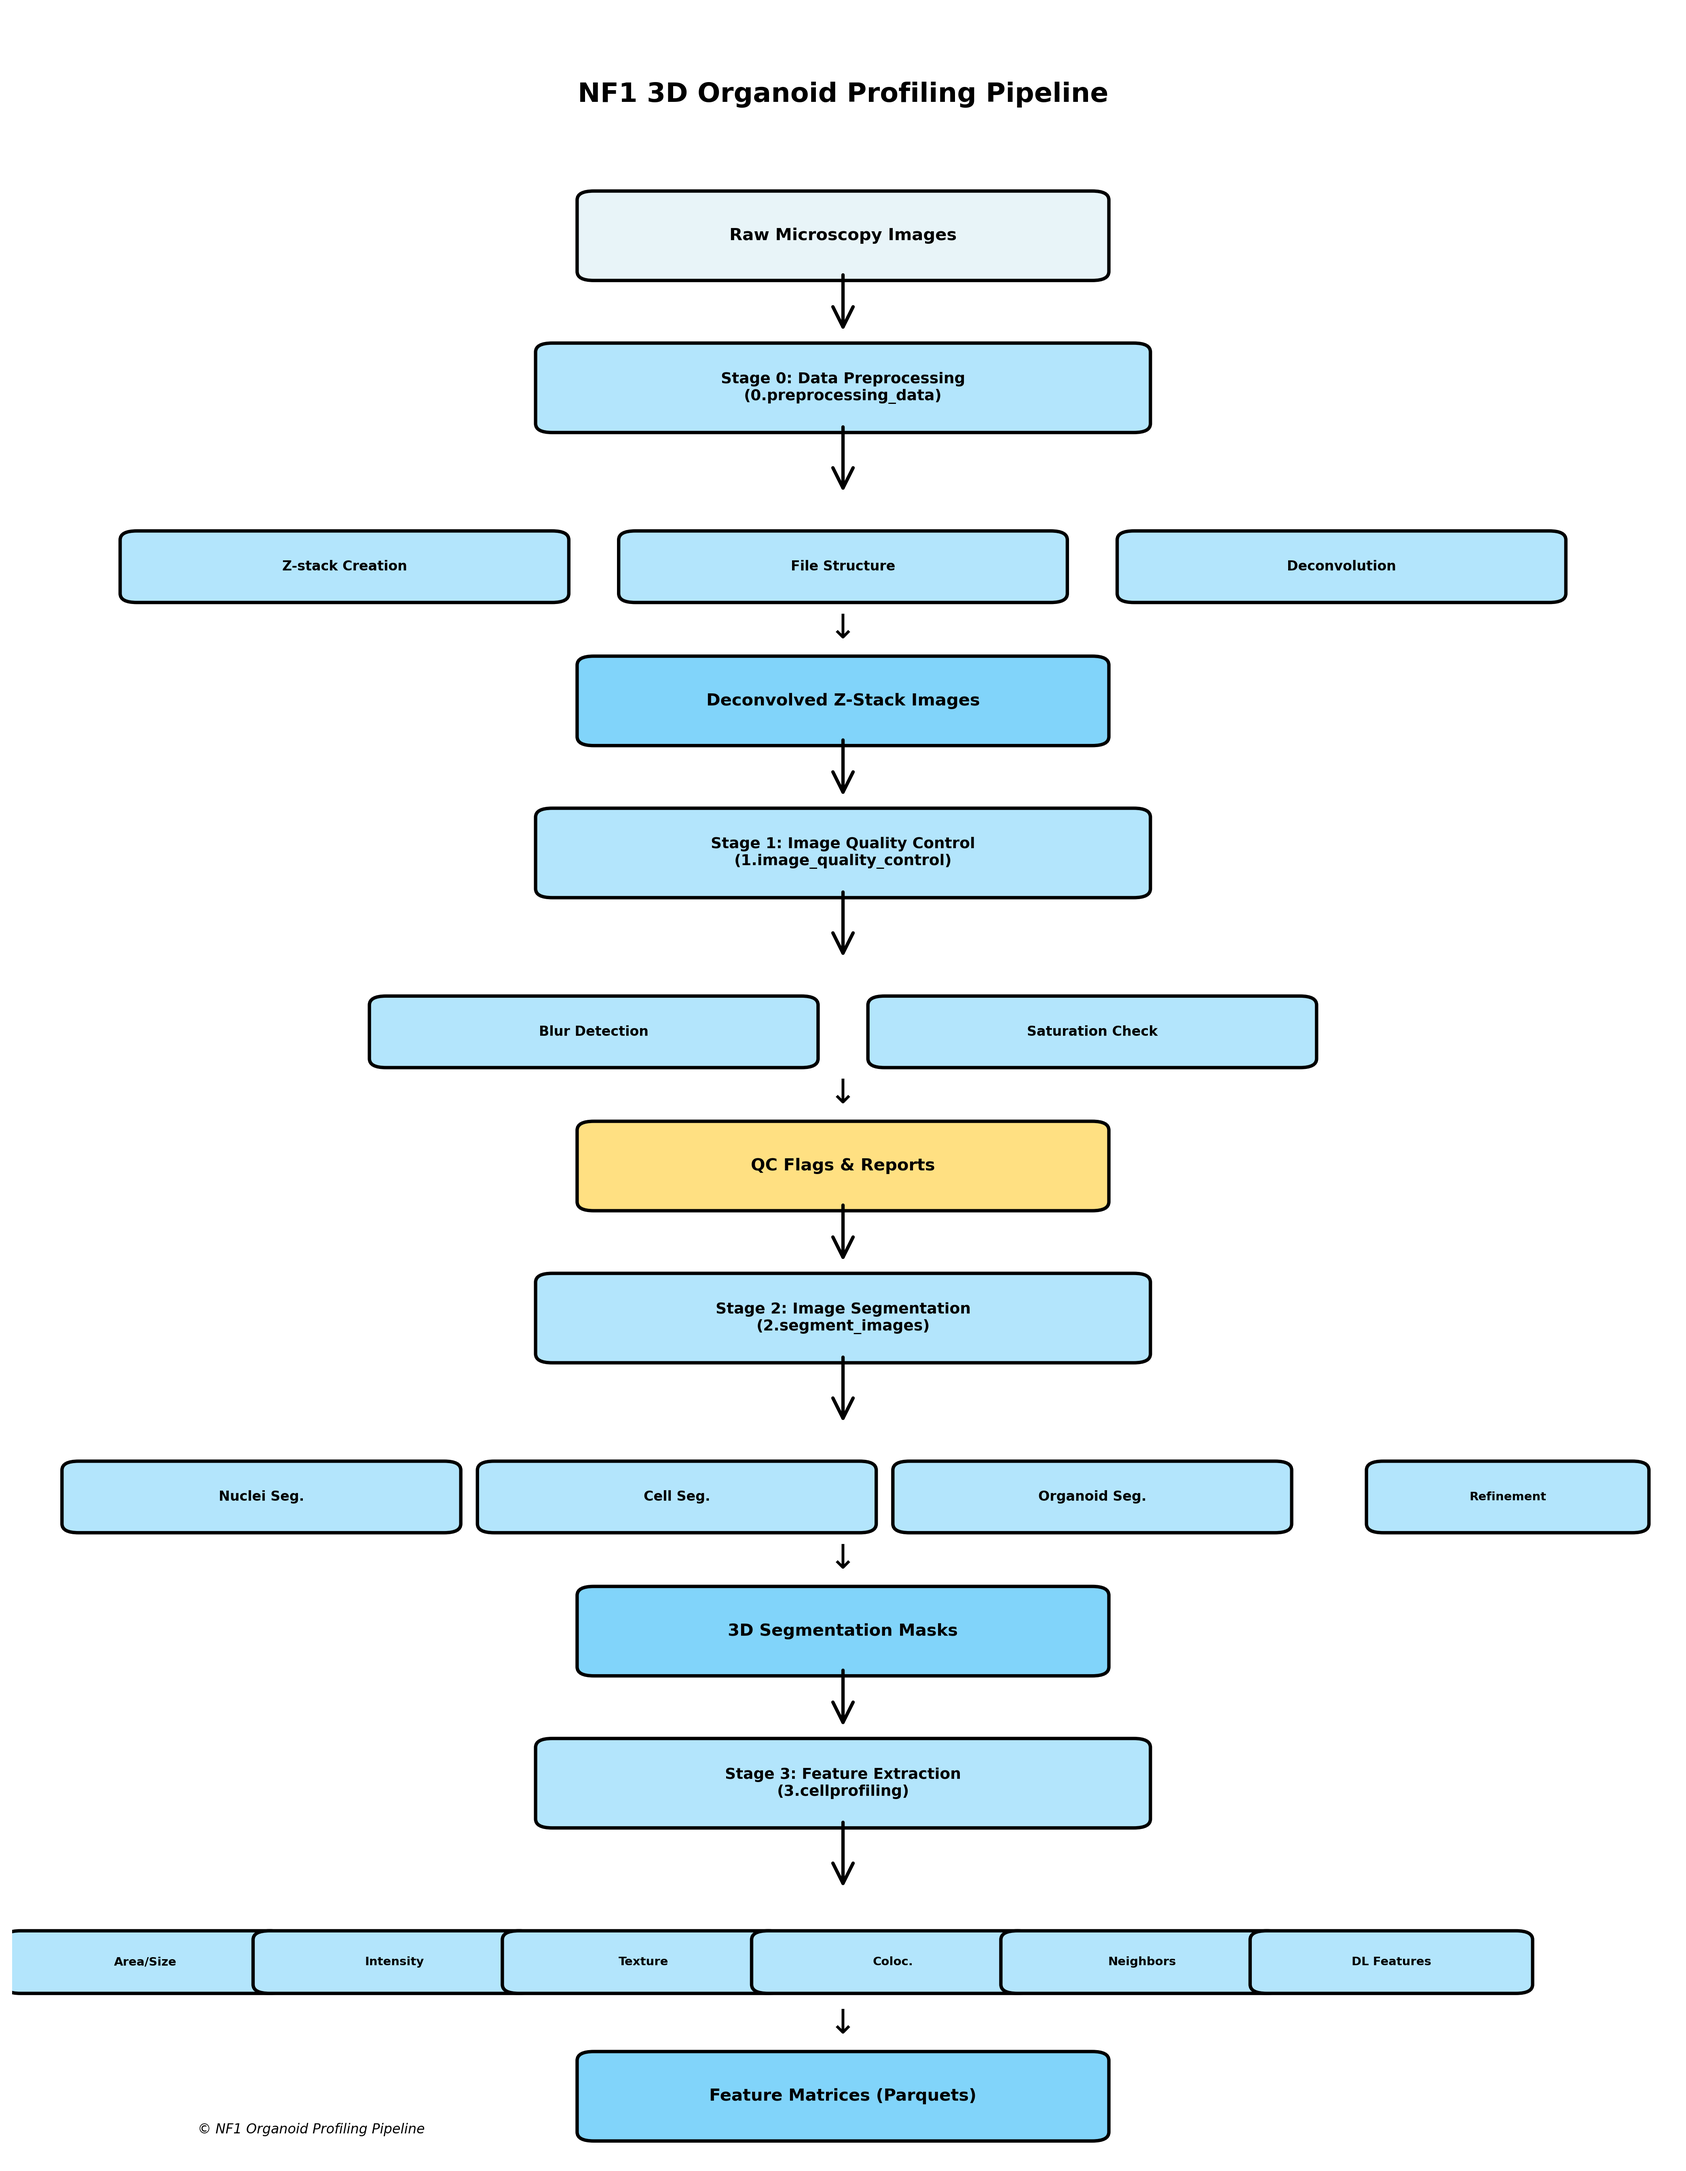
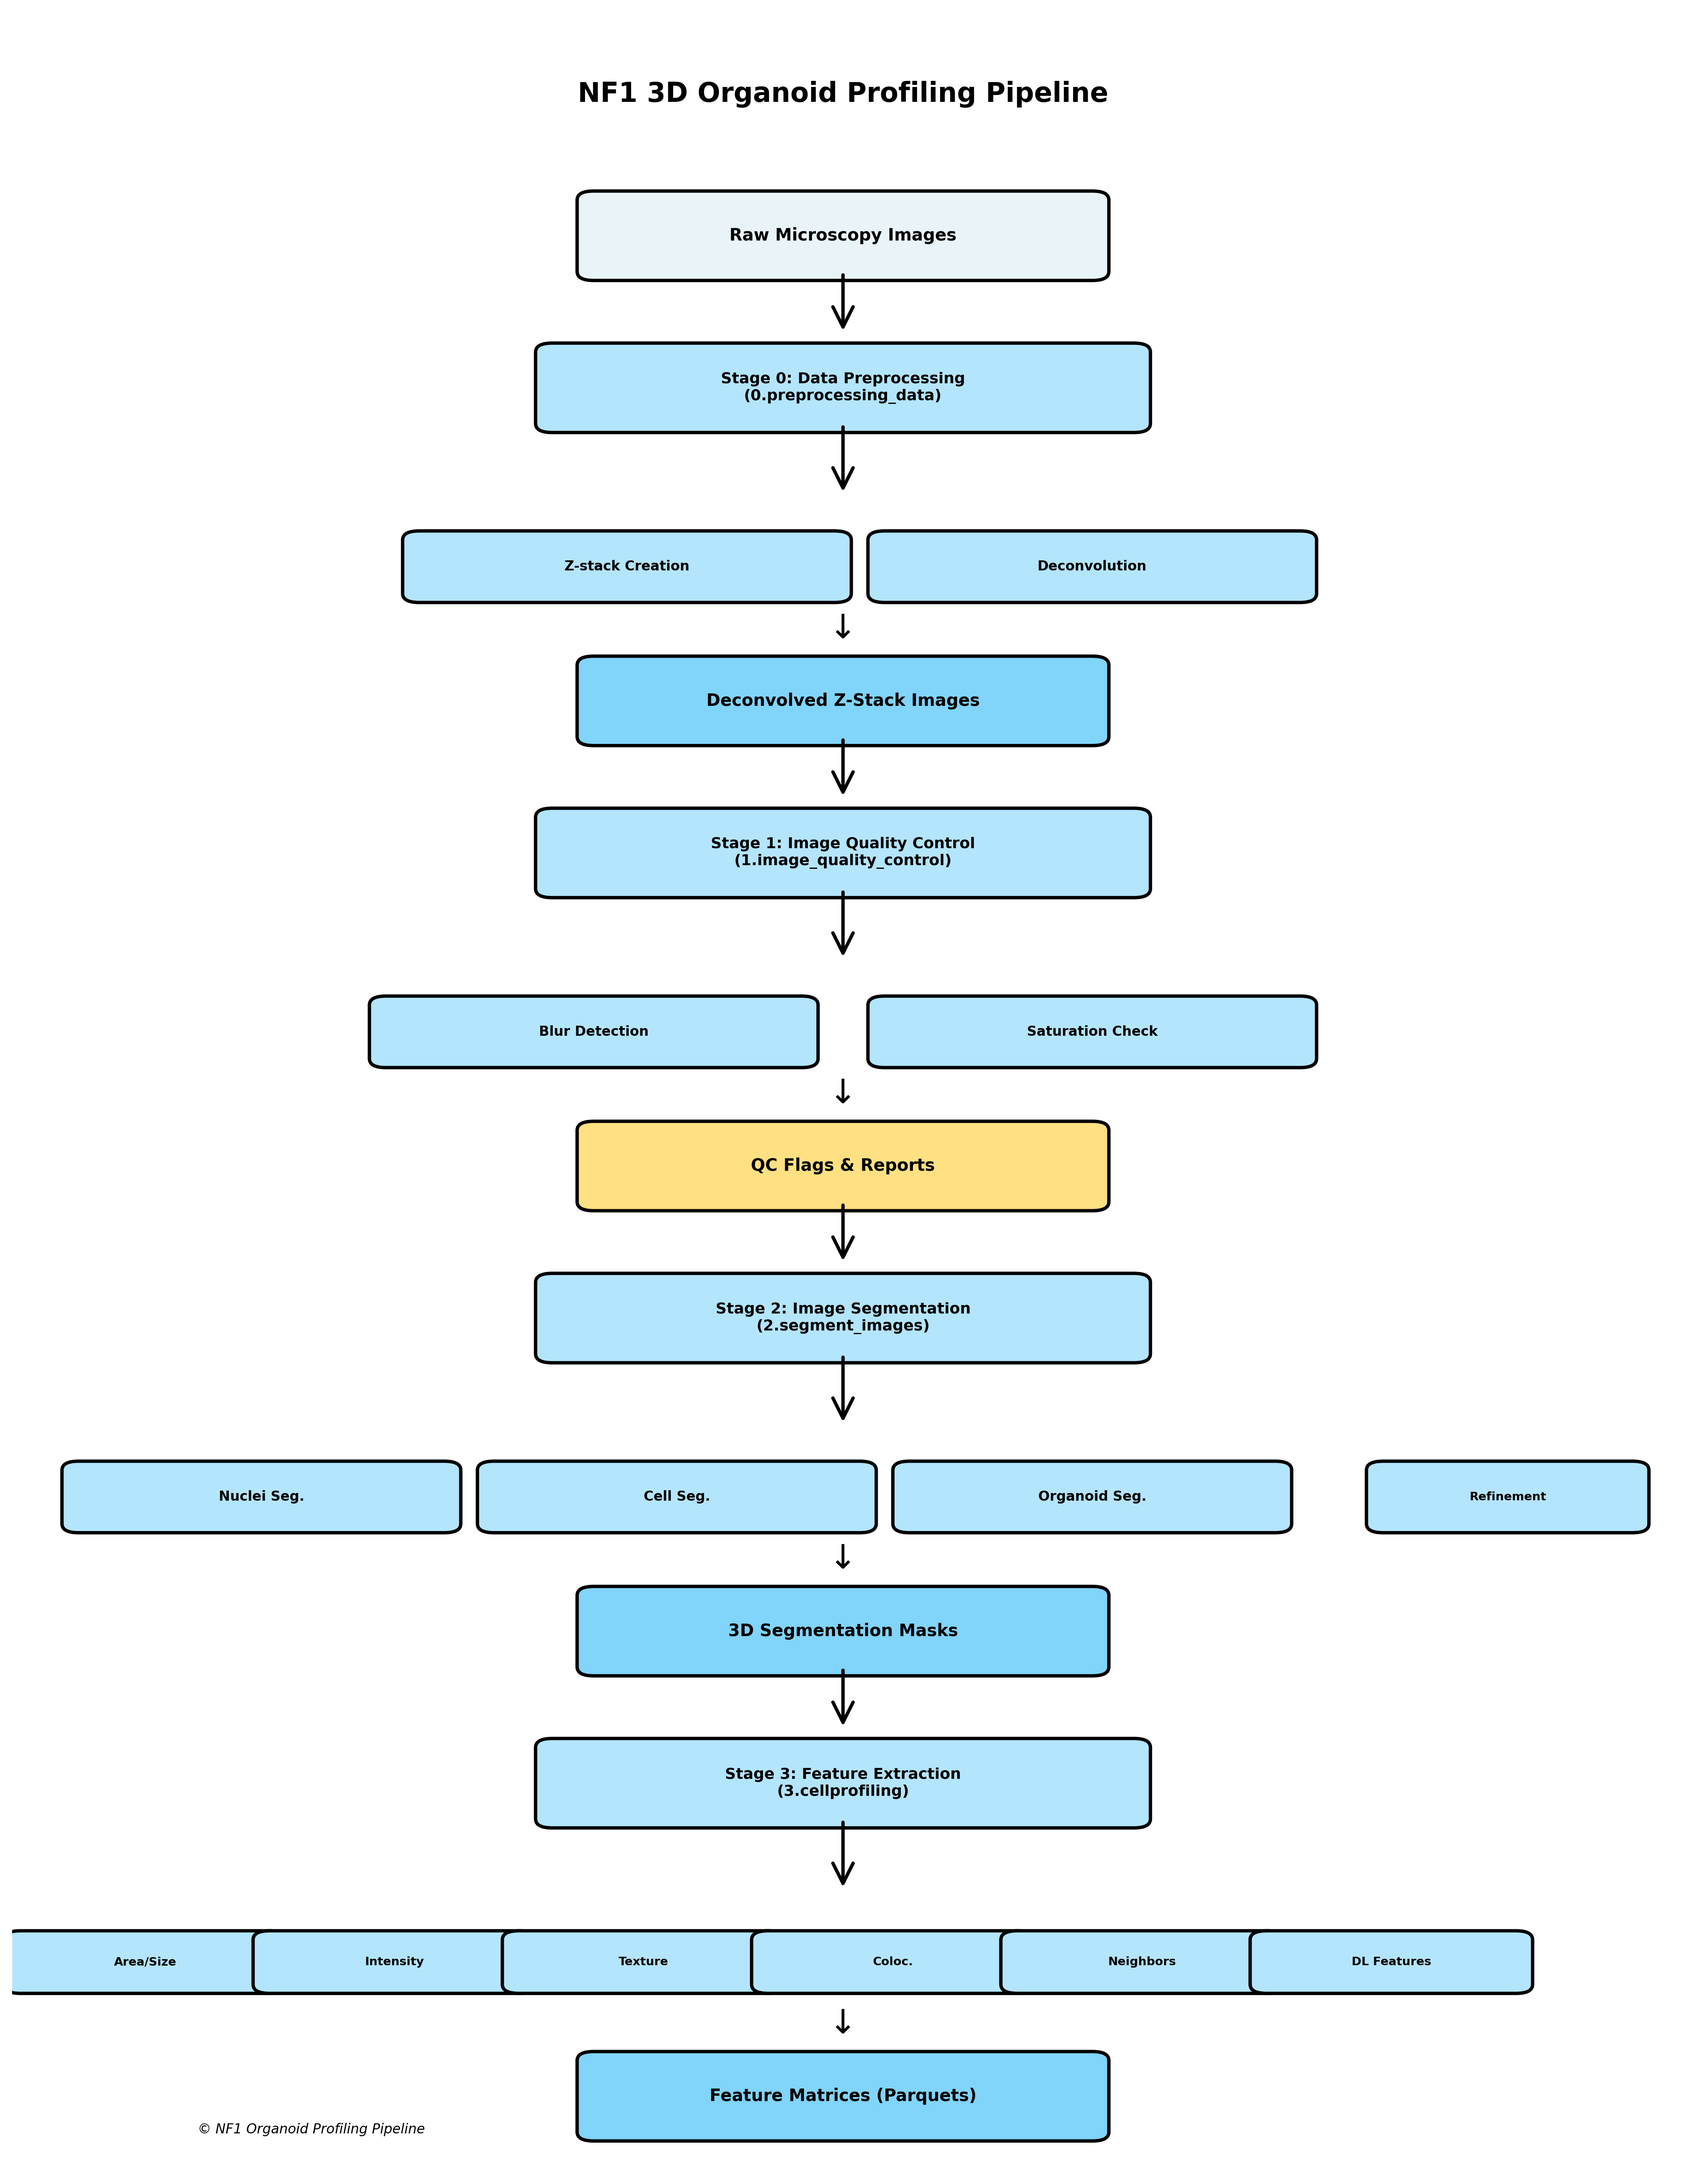
addressing comments

diff --git a/docs/scripts/workflow_diagram_script.py b/docs/scripts/workflow_diagram_script.py
@@ -80,9 +80,8 @@ create_box(
 )
 create_arrow(ax, 5, 19.4, 5, 18.6)
 
-create_box(ax, 2, 17.8, 2.5, 0.6, "Z-stack Creation", color_process, fontsize=8)
-create_box(ax, 5, 17.8, 2.5, 0.6, "File Structure", color_process, fontsize=8)
-create_box(ax, 8, 17.8, 2.5, 0.6, "Deconvolution", color_process, fontsize=8)
+create_box(ax, 3.7, 17.8, 2.5, 0.6, "Z-stack Creation", color_process, fontsize=8)
+create_box(ax, 6.5, 17.8, 2.5, 0.6, "Deconvolution", color_process, fontsize=8)
 
 ax.text(5, 17, "↓", fontsize=20, ha="center")
 create_box(ax, 5, 16.3, 3, 0.8, "Deconvolved Z-Stack Images", color_output)
@@ -159,7 +158,7 @@ fig.text(0.12, 0.02, "© NF1 Organoid Profiling Pipeline", fontsize=8, style="it
 plt.tight_layout()
 plt.savefig(
     "/home/lippincm/Documents/NF1_3D_organoid_profiling_pipeline/docs/source/_static/workflow_diagram.png",
-    dpi=300,
+    dpi=600,
     bbox_inches="tight",
     facecolor="white",
 )

diff --git a/docs/source/overview.rst b/docs/source/overview.rst
@@ -36,19 +36,19 @@ Stage 0: Data Preprocessing
 Process Steps
 ^^^^^^^^^^^^^^
 
-1. **Patient-Specific Preprocessing** (``0.patient_specific_preprocessing.py``)
+1. **Patient-Specific Preprocessing**
 
    - Organize raw image files by patient ID
    - Validate file naming conventions
    - Create patient-specific directory structures
 
-2. **File Structure Updates** (``1.update_file_structure.py``)
+2. **File Structure Updates**
 
    - Standardize directory hierarchy across patients
    - Rename files to consistent naming scheme
    - Verify data integrity
 
-3. **Z-Stack Creation** (``2a.make_z-stack_images.py``, ``1z.make_zstack_and_copy_over_CQ1.py``)
+3. **Z-Stack Creation**
 
    - Combine 2D image slices into 3D z-stacks
    - Handle different microscope formats (CQ1, IX83)
@@ -56,19 +56,19 @@ Process Steps
    - Typical z-spacing: 0.5 µm
    - Stack depth: 50-100 slices (~25-50 µm)
 
-4. **Corruption Detection** (``2b.check_for_corrupted_images.py``)
+4. **Corruption Detection**
 
    - Validate TIFF file integrity
    - Check for incomplete or damaged files
    - Flag problematic datasets
 
-5. **Deconvolution Preprocessing** (``3.decon_preprocessing.py``)
+5. **Deconvolution Preprocessing**
 
    - Prepare images for Huygens deconvolution
    - Generate parameter files
    - Organize batch processing structure
 
-6. **Post-Deconvolution Processing** (``4.post_decon_preprocessing.py``)
+6. **Post-Deconvolution Processing**
 
    - Import deconvolved images
    - Verify output quality
@@ -110,25 +110,25 @@ Stage 1: Image Quality Control
 Process Steps
 ^^^^^^^^^^^^^^
 
-1. **CellProfiler QC Pipeline** (``0.run_qc_pipeline.ipynb``)
+1. **CellProfiler QC Pipeline**
 
    - Extract whole-image metrics using CellProfiler
    - Compute per-slice statistics
    - Export metrics to CSV
 
-2. **Blur Evaluation** (``1.evaluate_blur.ipynb``)
+2. **Blur Evaluation**
 
    - Calculate Laplacian variance for focus detection
    - Identify out-of-focus z-slices
    - Set thresholds for acceptable sharpness
 
-3. **Saturation Analysis** (``2.evaluate_saturation.ipynb``)
+3. **Saturation Analysis**
 
    - Detect overexposed pixels per channel
    - Calculate percentage of saturated voxels
    - Flag wells with excessive saturation (>5%)
 
-4. **QC Report Generation** (``3.generate_qc_report.ipynb``)
+4. **QC Report Generation**
 
    - Create visualizations with ggplot2 (R)
    - Generate per-plate and per-patient summaries
@@ -142,6 +142,7 @@ Process Steps
 - **Illumination:** Uniformity across FOV
 
 **Inputs:**
+
 - Deconvolved z-stack images from Stage 0
 
 **Outputs:**
@@ -167,12 +168,12 @@ Stage 2: Image Segmentation
 Process Steps
 ^^^^^^^^^^^^^^
 
-1. **Nuclei Segmentation** (``0.nuclei_segmentation.py``)
+1. **Nuclei Segmentation**
 
    - Use Cellpose 4.0
    - Process DNA channel (405 nm)
 
-2. **Organoid Segmentation** (``1.segmentation.py``)
+2. **Organoid Segmentation**
 
    - Use cellpose 3.x using a custom size invariant search algorithm
 
@@ -187,11 +188,11 @@ Process Steps
    - Subtract nuclear masks from cell masks
    - Generate cytoplasmic compartment masks
 
-5. **Mask Refinement** (``2.postprocess_segmentation.ipynb``)
+5. **Mask Refinement**
 
-    - stitch 2D masks into 3D volumes
-    - match objects to retain the same IDs across z-slices
-    - pair nuclei to cells and organoids
+   - stitch 2D masks into 3D volumes
+   - match objects to retain the same IDs across z-slices
+   - pair nuclei to cells and organoids
 
 **Execution:**
 
@@ -239,69 +240,72 @@ Stage 4: Profile Processing
 
 **Purpose:** Merge, normalize, and aggregate features across wells and patients.
 
-Process Steps
+Process Steps:
 ^^^^^^^^^^^^^^
 
-1. **Feature Merging** (``scripts/2.merge_sc.py``, ``scripts/6.combining_profiles.py``)
+1. **Feature Merging**
 
    - Combine all feature CSVs per well FOV
    - Use cytotable for SQLite → Parquet conversion
    - Create single-cell (sc) and organoid-level profiles
 
-2. **Annotation** (``scripts/7.annotation.py``)
+2. **Annotation**
 
    - Add treatment metadata from plate maps
    - Link drug names, targets, concentrations
    - Add patient genotype information
 
-3. **Normalization** (``scripts/8.normalization.py``)
+3. **Normalization**
 
    - Z-score normalization per plate
    - Standardize features: ``(x - μ) / σ``
    - Handle batch effects
 
-4. **Feature Selection** (``scripts/9.feature_selection.py``)
+4. **Feature Selection**
 
    - Remove low-variance features
    - Filter correlated features (correlation > 0.9)
    - Drop blocklisted features
    - Apply frequency cutoff for categorical features
 
-5. **Aggregation** (``scripts/10.aggregation.py``)
+5. **Aggregation**
 
    - Calculate well-level statistics (mean, median, std)
    - Generate organoid-parent aggregations
    - Compute patient-level summaries
 
-6. **Consensus Profiles** (``scripts/11.merge_consensus_profiles.py``)
+6. **Consensus Profiles**
 
    - Merge sc and organoid aggregations
    - Create hierarchical profile structure
    - Export final consensus matrices
 
-7. **QC Filtering** (``scripts/5a.organoid_qc.py``, ``scripts/5b.single_cell_qc.py``)
+7. **QC Filtering**
 
    - Apply image QC flags from Stage 1
    - Remove outlier objects (z-score > 3)
    - Filter low-quality wells
 
-8. **Patient Combination** (``scripts/12.combine_patients.py``)
+8. **Patient Combination**
 
    - Merge profiles across all patients
    - Apply global feature selection
    - Generate all-patient consensus profiles
 
 **Output Levels:**
+
 - **Single-cell:** One row per nucleus/cell
 - **Organoid:** One row per organoid (aggregated from cells)
 - **Well:** One row per well FOV (aggregated from organoids)
 - **Patient:** One row per patient/treatment (aggregated from wells)
 
 **Inputs:**
+
 - Feature CSV files from Stage 3
 - Metadata: plate maps, treatment info, QC flags
 
 **Outputs:**
+
 - ``data/{patient}/image_based_profiles/sc.parquet`` - Single-cell profiles
 - ``data/{patient}/image_based_profiles/organoid.parquet`` - Organoid profiles
 - ``data/all_patient_profiles/sc_consensus.parquet`` - Cross-patient SC
@@ -310,6 +314,7 @@ Process Steps
 - ``data/all_patient_profiles/patient_aggregated.parquet`` - Patient-level
 
 **Feature Selection Parameters:**
+
 - Correlation threshold: 0.9
 - Variance threshold: 0.01
 - NA cutoff: 5%
@@ -389,20 +394,24 @@ File Naming Conventions
 --------------------------------------------------
 
 **Z-Stack Images:**
+
 - Format: ``{channel}.tif`` where channel ∈ {405, 488, 555, 568, 640}
 - Dimensions: (Z, Y, X)
 - Data type: uint16
 
 **Segmentation Masks:**
+
 - Format: ``{compartment}_mask.tif``
 - Compartments: {organoid, nuclei, cell, cytoplasm}
 - Label encoding: Integer object IDs (0=background, 1-N=objects)
 
 **Feature Files:**
+
 - Format: ``{feature}_{compartment}_{channel}_{processor}_features.parquet``
 - Example: ``Intensity_Nuclei_405_GPU_features.parquet``
 
 **Profile Files:**
+
 - Format: Parquet (compressed columnar storage)
 - Naming: ``{level}_{aggregation}.parquet``
 - Example: ``sc_consensus.parquet``
@@ -430,6 +439,7 @@ The pipeline processes five fluorescent imaging channels:
    +--------+----------------------+--------+--------+----------+----------------+-------------------+
 
 **Imaging Parameters:**
+
 - Objective: 60x/1.35 NA oil immersion
 - Oil RI: 1.518
 - Voxel size: 0.108 µm (XY) × 1 µm (Z)
@@ -443,12 +453,14 @@ Hardware Specifications
 --------------------------------------------------
 
 **Local**
+
 - CPU: 24 cores @ 2.5 GHz
 - RAM: 128 GB
 - Storage: 20 TB free space
 - GPU: NVIDIA GeForce 3090Ti with 24 GB VRAM for acceleration
 
 **HPC Cluster (SLURM):**
+
 - Nodes: 100s of CPU compute nodes
 - Partition: amilan (CPU), aa100 (GPU)
 - QOS: normal (24h), long (7 days)
@@ -458,10 +470,12 @@ Software Environment
 --------------------------------------------------
 
 **Operating System:**
+
 - Linux (Ubuntu 20.04+, CentOS 7+)
 - macOS (limited support)
 
 **Conda Environments:**
+
 - ``GFF_preprocessing``: Data ingestion and z-stack creation
 - ``GFF_segmentation``: Cellpose, SAM-Med3D for segmentation
 - ``GFF_DL_featurization``: Deep learning feature extraction
@@ -470,6 +484,7 @@ Software Environment
 - ``gff_figure_env``: R visualization (ggplot2, tidyverse)
 
 **Key Dependencies:**
+
 - Python 3.9-3.11
 - PyTorch 2.0+ (with CUDA 11.8+)
 - Cellpose 3.x, 4.x
@@ -503,6 +518,7 @@ Runtime Estimates
    +----------------------------+----------+---------------------------+
 
 **Storage Requirements:**
+
 - Raw images: 250-500 MB/well FOV
 - Z-stacks: 250-500 MB/well FOV
 - Masks: 250-500 MB/well FOV

diff --git a/docs/source/features/intensity.rst b/docs/source/features/intensity.rst
@@ -108,6 +108,7 @@ Applications
 ===================================================
 
 Intensity features are useful for:
+
 * Quantifying fluorescence levels within cellular structures
 * Detecting changes in protein expression
 * Characterizing subcellular localization patterns
